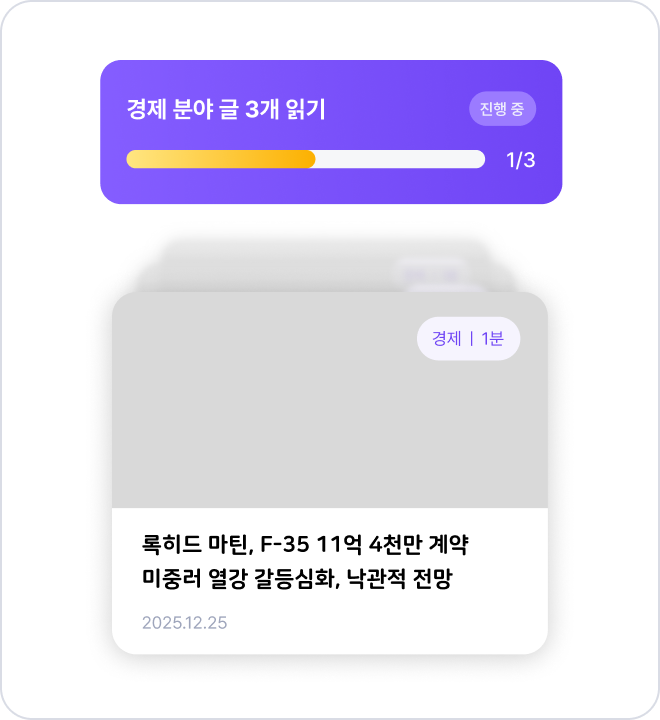
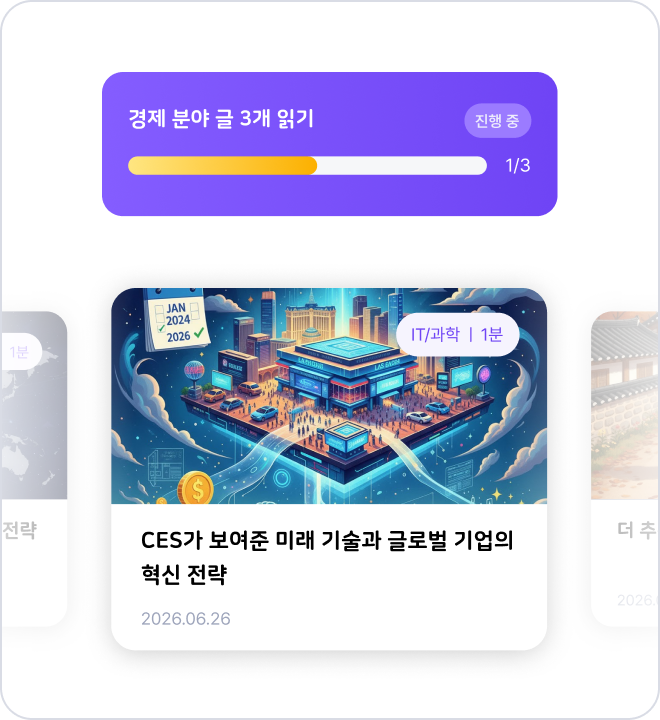
chore(onboarding): 온보딩 카드 이미지 교체 (#65)
* chore(assets): Intro_Function_IMG.png 변수 오타 수정

* design(onboarding): 카드 이미지 리소스 교체

diff --git a/src/icons/commonIcons/simpleImages.tsx b/src/icons/commonIcons/simpleImages.tsx
@@ -6,7 +6,7 @@ import Level_1_tooltip from '../../assets/png/Level_1_tooltip.png';
 import Check_3D from '../../assets/png/Check_3D.png';
 import ProgressBar from '../../assets/png/ProgressBar.png';
 import Intro_CardList_IMG from '../../assets/png/Intro_CardList_IMG.png';
-import Intro_Fuction_IMG from '../../assets/png/Intro_Fuction_IMG.png';
+import Intro_Function_IMG from '../../assets/png/Intro_Function_IMG.png';
 import Intro_Search_IMG from '../../assets/png/Intro_Search_IMG.png';
 import level_2_tooltip from '../../assets/png/level2_tooltip.png';
 import level_3_tooltip from '../../assets/png/level3_tooltip.png';
@@ -97,8 +97,8 @@ export const Intro_CardList = createImageIconComponent(
   scaleWidth(330),
   scaleWidth(360),
 );
-export const Intro_Fuction = createImageIconComponent(
-  Intro_Fuction_IMG,
+export const Intro_Function = createImageIconComponent(
+  Intro_Function_IMG,
   scaleWidth(330),
   scaleWidth(360),
 );

diff --git a/src/screens/onboarding/IntroSlideScreen.tsx b/src/screens/onboarding/IntroSlideScreen.tsx
@@ -26,7 +26,7 @@ import {
 } from '../../styles/typography';
 import {
   Intro_CardList,
-  Intro_Fuction,
+  Intro_Function,
   Intro_Search,
 } from '../../icons/commonIcons/simpleImages';
 import { logEvent } from '../../services/analyticsService';
@@ -57,7 +57,7 @@ const INTRO_SLIDES: IntroSlide[] = [
     description:
       '활동을 통해 경험치를 모으면 레벨이 오르고\n새로운 캐릭터를 만날 수 있어요',
     eventName: 'Next_Onboarding_Function02_Character',
-    Illustration: Intro_Fuction,
+    Illustration: Intro_Function,
   },
   {
     id: 2,
